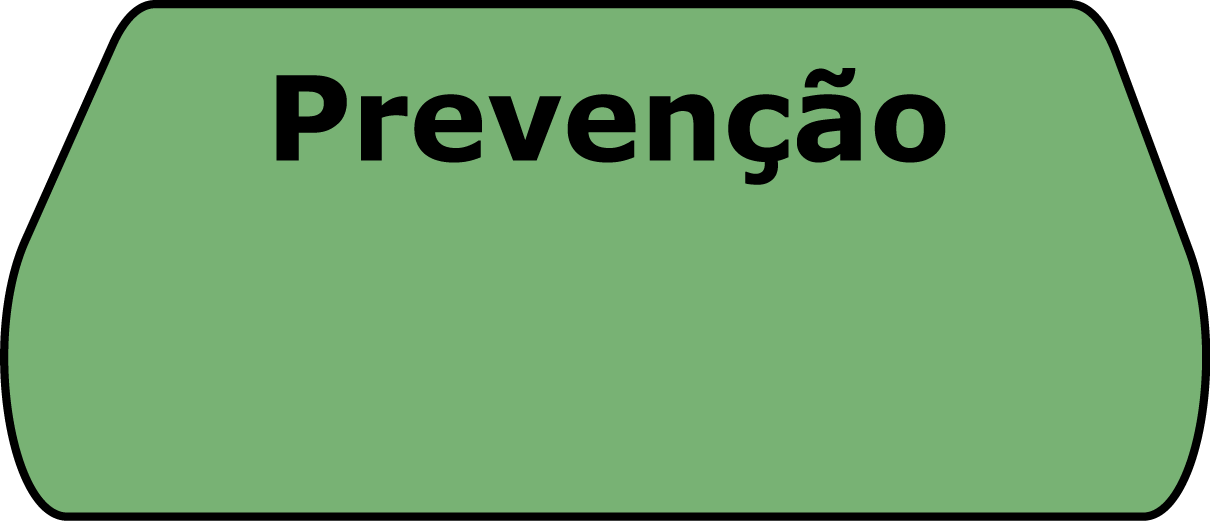
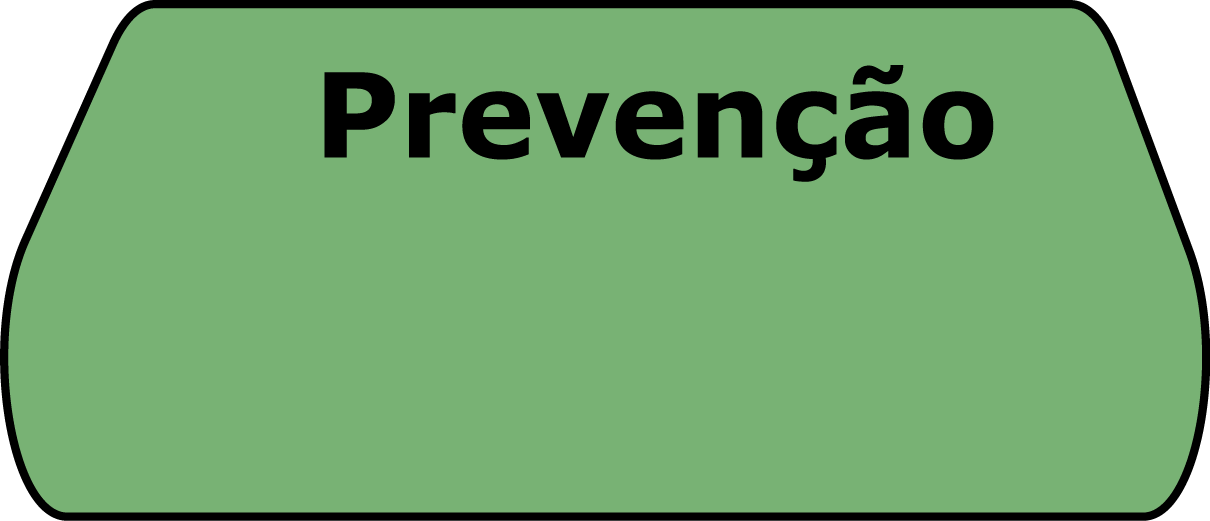
fixed tabs positioning

Changed region(s): [[0.214, 0.1228, 0.8256, 0.3685]]

diff --git a/js/cena1_cicloCisticercose.js b/js/cena1_cicloCisticercose.js
@@ -300,7 +300,7 @@ function carregaCicloCisticercose() {
   itensCenouraDoente.push(item.cenouraTextoPrevencao);
 
   item.cenouraAbaTransmissao = new Game.Item("abaTran.png");
-  item.cenouraAbaTransmissao.setPosition(432+232+550-150, 71);
+  item.cenouraAbaTransmissao.setPosition(432+240+550-150, 71);
   item.cenouraAbaTransmissao.setScale(0.25);
   item.cenouraAbaTransmissao.setZorder(8);
   item.cenouraAbaTransmissao.setAlpha(0);

diff --git a/js/cena1_cicloTaeniaSolium.js b/js/cena1_cicloTaeniaSolium.js
@@ -557,7 +557,7 @@ function carregaCicloTaeniaSolium() {
   itensPorcoDoente.push(item.porcoTextoPrevencao);
 
   item.porcoAbaTransmissao = new Game.Item("abaTran.png");
-  item.porcoAbaTransmissao.setPosition(432+232+550+270, 71);
+  item.porcoAbaTransmissao.setPosition(432+240+550+270, 71);
   item.porcoAbaTransmissao.setScale(0.25);
   item.porcoAbaTransmissao.setZorder(8);
   item.porcoAbaTransmissao.setAlpha(0);

diff --git a/js/cena1_cicloTaeniaSaginata.js b/js/cena1_cicloTaeniaSaginata.js
@@ -556,7 +556,7 @@ function carregaCicloTaeniaSaginata() {
   itensVacaDoente.push(item.vacaTextoPrevencao);
 
   item.vacaAbaTransmissao = new Game.Item("abaTran.png");
-  item.vacaAbaTransmissao.setPosition(432+232+550+270, 71);
+  item.vacaAbaTransmissao.setPosition(432+240+550+270, 71);
   item.vacaAbaTransmissao.setScale(0.25);
   item.vacaAbaTransmissao.setZorder(8);
   item.vacaAbaTransmissao.setAlpha(0);

diff --git a/js/cena0_cicloToxoplamose.js b/js/cena0_cicloToxoplamose.js
@@ -393,7 +393,7 @@ function carregaCicloToxoplasmose() {
   itensGatoDoente.push(item.gatoTextoPrevencao);
 
   item.gatoAbaTransmissao = new Game.Item("abaTran.png");
-  item.gatoAbaTransmissao.setPosition(432+232+550, 71);
+  item.gatoAbaTransmissao.setPosition(432+240+550, 71);
   item.gatoAbaTransmissao.setScale(0.25);
   item.gatoAbaTransmissao.setZorder(8);
   item.gatoAbaTransmissao.setAlpha(0);
